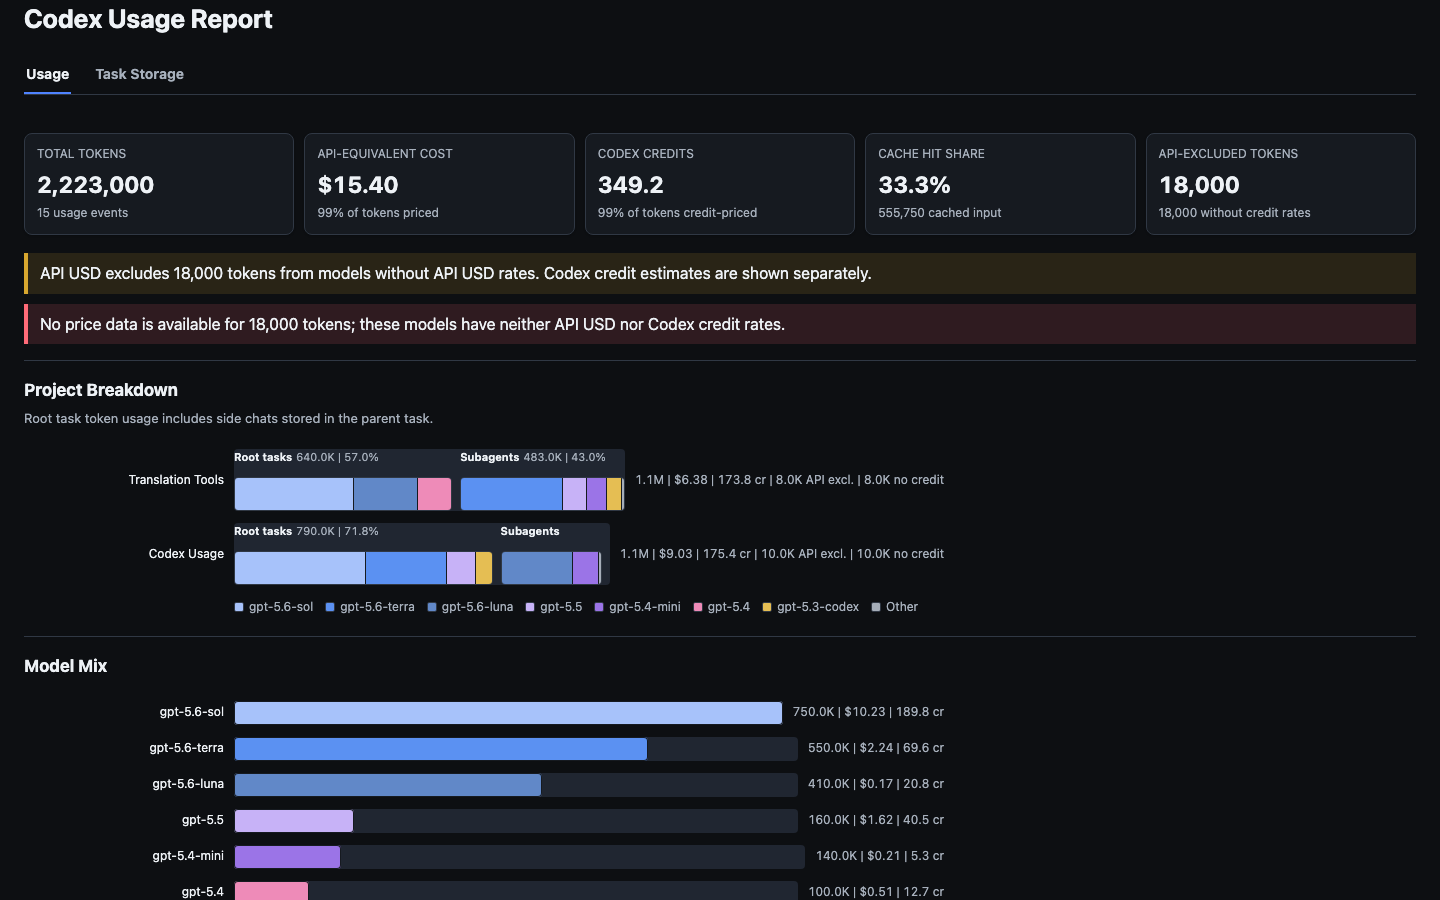
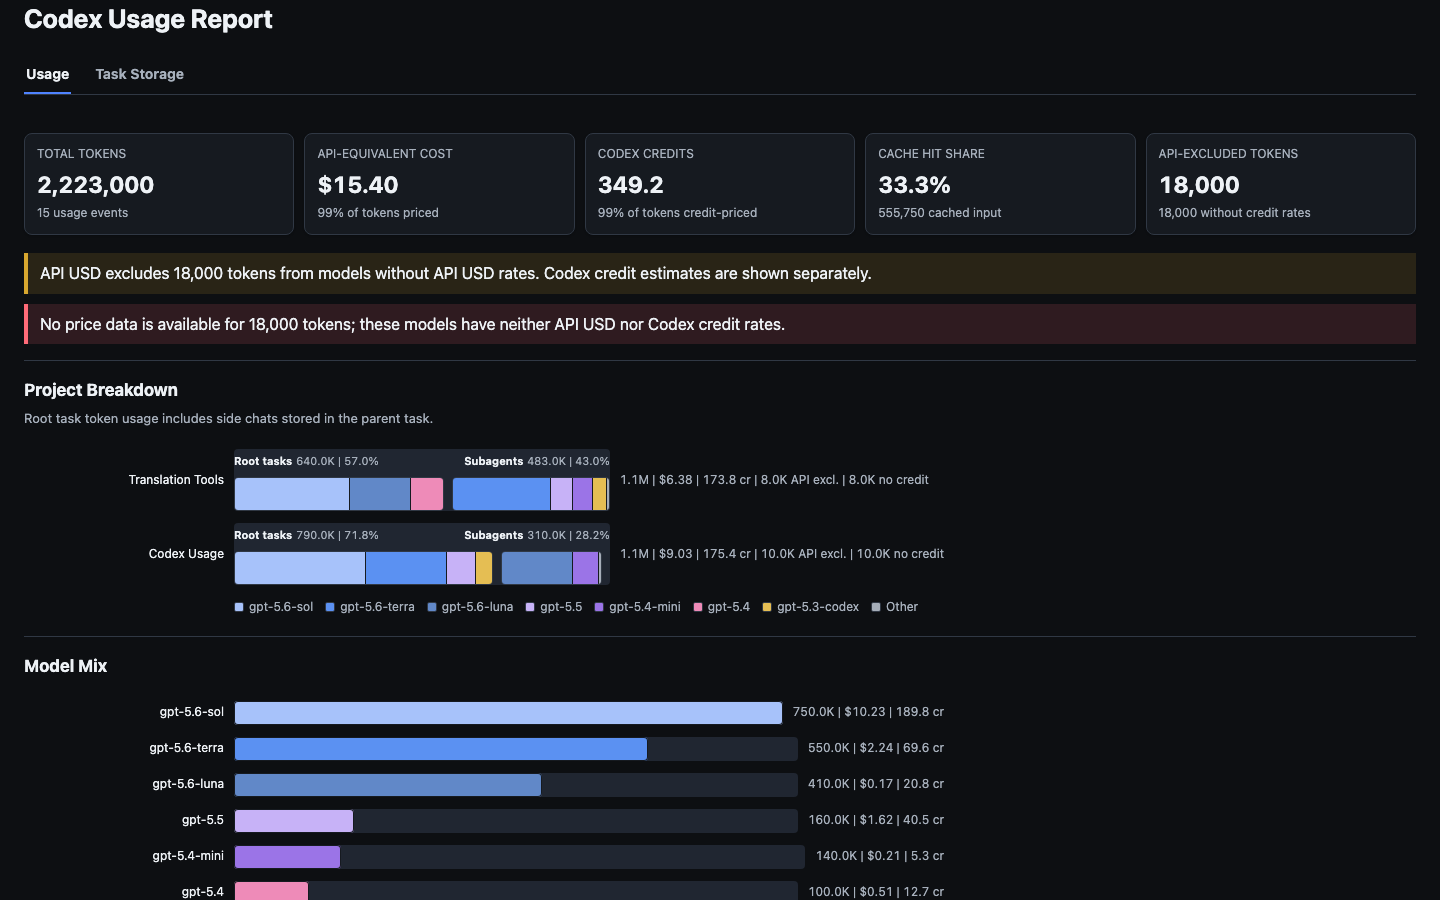
fix: stabilize project breakdown layout

Changed region(s): [[0.2812, 0.4978, 0.6562, 0.6222], [0.1562, 0.4978, 0.25, 0.56], [0.1562, 0.5911, 0.2188, 0.6222]]

diff --git a/extensions/vscode/test/core.test.js b/extensions/vscode/test/core.test.js
@@ -473,7 +473,7 @@ test("native release jobs gate direct Codex registration before VSIX packaging",
 test("package metadata is ready for stable Marketplace publishing", () => {
   assert.equal(packageJson.publisher, "wenjun-mao");
   assert.equal(packageJson.private, undefined);
-  assert.equal(packageJson.version, "1.7.4");
+  assert.equal(packageJson.version, "1.7.5");
   assert.equal(packageJson.preview, undefined);
   assert.equal(packageJson.repository.url, "https://github.com/Wenjun-Mao/codex_usage.git");
   assert.match(packageJson.description, /local/i);

diff --git a/src/codex_usage/report_breakdown_theme.py b/src/codex_usage/report_breakdown_theme.py
@@ -37,12 +37,18 @@ _MODEL_COLOR_CSS = """
 _PROJECT_BREAKDOWN_CSS = """
     .project-breakdown-chart, .model-mix-chart {
       display: grid;
-      gap: 12px;
       min-width: 680px;
       max-width: 920px;
       width: 100%;
     }
-    .project-breakdown-row, .model-mix-row {
+    .project-breakdown-chart {
+      grid-template-columns: minmax(120px, 200px) minmax(220px, 1fr) max-content;
+      gap: 12px 10px;
+      align-items: center;
+    }
+    .project-breakdown-row { display: contents; }
+    .model-mix-chart { gap: 12px; }
+    .model-mix-row {
       display: grid;
       grid-template-columns: minmax(120px, 200px) minmax(220px, 1fr) max-content;
       gap: 10px;
@@ -69,17 +75,21 @@ _PROJECT_BREAKDOWN_CSS = """
       background: var(--surface-soft);
     }
     .project-track { height: 62px; }
-    .project-role-stack { min-width: 0; height: 100%; }
+    .project-role-stack { min-width: 0; height: 34px; }
     .project-role-labels {
-      display: grid;
+      display: flex;
+      align-items: center;
+      justify-content: space-between;
+      gap: 8px;
       min-width: 0;
       height: 24px;
       margin-bottom: 4px;
+      container-name: role-labels;
+      container-type: inline-size;
     }
     .project-role-groups { display: grid; height: 34px; min-width: 0; }
-    .project-role-groups.has-role-gap,
-    .project-role-labels.has-role-gap { gap: 8px; }
-    .project-role-heading { container-type: inline-size; overflow: hidden; min-width: 0; color: var(--muted); font-size: 11px; white-space: nowrap; }
+    .project-role-groups.has-role-gap { gap: 8px; }
+    .project-role-heading { flex: 0 0 auto; min-width: max-content; color: var(--muted); font-size: 11px; white-space: nowrap; }
     .project-role-heading-label { color: var(--text); font-weight: 650; }
     .project-role-heading-detail { margin-left: 4px; font-variant-numeric: tabular-nums; }
     .project-role-group { position: relative; display: flex; overflow: visible; min-width: 0; border: 1px solid var(--border); border-radius: 4px; }
@@ -94,19 +104,25 @@ _PROJECT_BREAKDOWN_CSS = """
       filter: brightness(1.12);
       z-index: 3;
     }
-    .model-legend { display: flex; flex-wrap: wrap; gap: 6px 12px; margin: 2px 0 0 210px; color: var(--muted); font-size: 12px; }
+    .model-legend { display: flex; flex-wrap: wrap; grid-column: 2 / -1; gap: 6px 12px; margin-top: 2px; color: var(--muted); font-size: 12px; }
     .model-legend-item { display: inline-flex; align-items: center; gap: 5px; }
     .model-swatch { display: inline-block; width: 10px; height: 10px; border: 1px solid var(--border); border-radius: 2px; overflow: hidden; }
     .model-swatch > span { display: block; width: 100%; height: 100%; }
     .model-segment .chart-tooltip { left: 50%; }
     .model-segment:hover .chart-tooltip,
     .model-segment:focus-visible .chart-tooltip { opacity: 1; visibility: visible; transform: translate(-50%, 0); transition-delay: 0s; }
-    @container (max-width: 120px) { .project-role-heading-detail { display: none; } }
+    .project-role-group:first-child .model-segment:first-child .chart-tooltip { left: 0; transform: translate(0, 2px); }
+    .project-role-group:last-child .model-segment:last-child .chart-tooltip { right: 0; left: auto; transform: translate(0, 2px); }
+    .project-role-group:first-child .model-segment:first-child:hover .chart-tooltip,
+    .project-role-group:first-child .model-segment:first-child:focus-visible .chart-tooltip,
+    .project-role-group:last-child .model-segment:last-child:hover .chart-tooltip,
+    .project-role-group:last-child .model-segment:last-child:focus-visible .chart-tooltip { transform: translate(0, 0); }
+    @container role-labels (max-width: 360px) { .project-role-heading-detail { display: none; } }
     @media (max-width: 720px) {
       .project-breakdown-chart, .model-mix-chart { min-width: 560px; }
-      .project-breakdown-row, .model-mix-row { grid-template-columns: 96px minmax(220px, 1fr) max-content; gap: 8px; }
+      .project-breakdown-chart { grid-template-columns: 96px minmax(220px, 1fr) max-content; gap: 12px 8px; }
+      .model-mix-row { grid-template-columns: 96px minmax(220px, 1fr) max-content; gap: 8px; }
       .breakdown-bar-label { text-align: left; }
-      .model-legend { margin-left: 104px; }
     }
     body.vscode-high-contrast {
       --model-0: var(--text);

diff --git a/tests/test_project_breakdown_html.py b/tests/test_project_breakdown_html.py
@@ -32,6 +32,7 @@ def test_project_breakdown_renders_nested_roles_models_and_shared_legend(
     ):
         assert f'data-report-section="{section_id}"' in html
     assert 'class="project-role-groups has-role-gap"' in html
+    assert '<div class="project-track"><div class="project-role-labels has-role-gap">' in html
     assert ">Root tasks<" in html
     assert ">Subagents<" in html
     assert 'role="group" aria-label="demo Root tasks' in html
@@ -123,7 +124,7 @@ def test_project_breakdown_empty_state_and_styles_are_self_contained(
     assert "--model-7: #8b949f;" in html
     assert "body.vscode-high-contrast" in html
     assert ".model-segment:focus-visible" in html
-    assert "@container (max-width: 120px)" in html
+    assert "@container role-labels (max-width: 360px)" in html
     assert "<script" not in html
     assert " src=" not in html
     assert 'href="#report-view-usage"' in html
@@ -172,6 +173,8 @@ def test_project_role_fill_boundary_keeps_tooltips_outside_its_clip(tmp_path: Pa
     assert ".model-segment:first-child { border-radius: 3px 0 0 3px; }" in html
     assert ".model-segment:last-child { border-radius: 0 3px 3px 0; }" in html
     assert ".model-segment:only-child { border-radius: 3px; }" in html
+    assert ".project-role-group:first-child .model-segment:first-child .chart-tooltip" in html
+    assert ".project-role-group:last-child .model-segment:last-child .chart-tooltip" in html
 
 
 def test_project_role_stack_reserves_space_for_labels_and_groups(tmp_path: Path) -> None:
@@ -179,6 +182,31 @@ def test_project_role_stack_reserves_space_for_labels_and_groups(tmp_path: Path)
 
     assert ".project-track, .model-mix-track {" in html
     assert "height: 62px;" in html
+    assert ".project-role-stack { min-width: 0; height: 34px; }" in html
+
+
+def test_project_rows_share_track_columns_and_labels_do_not_use_role_widths(
+    tmp_path: Path,
+) -> None:
+    html = _render_report(
+        tmp_path,
+        [
+            _record("root", "gpt-5.6-sol", 9_999),
+            _record("subagent", "gpt-5.6-terra", 1),
+        ],
+    )
+
+    assert ".project-breakdown-row { display: contents; }" in html
+    assert "grid-template-columns: minmax(120px, 200px) minmax(220px, 1fr) max-content;" in html
+    labels_html = html.split('<div class="project-role-labels has-role-gap">', 1)[1].split(
+        "</div>", 1
+    )[0]
+    assert "grid-template-columns" not in labels_html
+    assert ">Root tasks<" in labels_html
+    assert ">Subagents<" in labels_html
+    assert "overflow: hidden" not in html.split(".project-role-heading {", 1)[1].split(
+        "}", 1
+    )[0]
 
 
 def test_model_details_keeps_all_exact_models_beyond_two_hundred_rows(

diff --git a/src/codex_usage/marketplace_screenshot_validation.py b/src/codex_usage/marketplace_screenshot_validation.py
@@ -12,6 +12,7 @@ def _validate_browser_layout(page: Page, viewport_width: int, view: str) -> None
         _validate_storage_tooltips(page, viewport_width)
     else:
         _validate_focused_tooltips(page, viewport_width)
+        _validate_project_track_geometry(page)
         _validate_role_group_geometry(page)
     _validate_scroll_containers(page, view)
 
@@ -152,6 +153,33 @@ def _validate_role_group_geometry(page: Page) -> None:
             or group_y + group_height > stack_y + stack_height
         ):
             raise RuntimeError("project role group escapes its project role stack")
+
+
+def _validate_project_track_geometry(page: Page) -> None:
+    tracks = page.locator(".project-track")
+    track_widths = [
+        _box_values(box)[2]
+        for index in range(tracks.count())
+        if (box := tracks.nth(index).bounding_box()) is not None
+    ]
+    if not track_widths:
+        raise RuntimeError("expected project tracks")
+    if max(track_widths) - min(track_widths) > 0.5:
+        raise RuntimeError("project tracks do not share one chart width")
+
+    clipped_labels = page.locator(".project-role-heading-label").evaluate_all(
+        """
+        labels => labels.filter(label => {
+          const rect = label.getBoundingClientRect();
+          const range = document.createRange();
+          range.selectNodeContents(label);
+          const textRect = range.getBoundingClientRect();
+          return textRect.left < rect.left - 0.5 || textRect.right > rect.right + 0.5;
+        }).map(label => label.textContent)
+        """
+    )
+    if clipped_labels:
+        raise RuntimeError(f"project role labels are clipped: {clipped_labels}")
 
 
 def _validate_scroll_containers(page: Page, view: str) -> None:

diff --git a/tests/test_marketplace_screenshot.py b/tests/test_marketplace_screenshot.py
@@ -7,6 +7,7 @@ from pathlib import Path
 from codex_usage.marketplace_screenshot_validation import (
     _box_values,
     _clear_tooltip_interaction,
+    _validate_project_track_geometry,
     _tooltip_visibility_error,
     _visible_scroll_metrics,
 )
@@ -109,6 +110,40 @@ def test_browser_geometry_uses_playwright_box_mappings() -> None:
         30,
         40,
     )
+
+
+def test_project_track_geometry_rejects_mismatched_track_widths() -> None:
+    class FakeLocator:
+        def __init__(self, boxes: list[dict[str, float]]) -> None:
+            self.boxes = boxes
+
+        def count(self) -> int:
+            return len(self.boxes)
+
+        def nth(self, index: int):
+            box = self.boxes[index]
+            return type("BoxLocator", (), {"bounding_box": lambda self: box})()
+
+        def evaluate_all(self, _script: str) -> list[str]:
+            return []
+
+    class FakePage:
+        def locator(self, selector: str):
+            if selector == ".project-track":
+                return FakeLocator(
+                    [
+                        {"x": 10, "y": 20, "width": 300, "height": 62},
+                        {"x": 10, "y": 94, "width": 298, "height": 62},
+                    ]
+                )
+            return FakeLocator([])
+
+    try:
+        _validate_project_track_geometry(FakePage())  # type: ignore[arg-type]
+    except RuntimeError as error:
+        assert "share one chart width" in str(error)
+    else:
+        raise AssertionError("mismatched project tracks should fail validation")
 
 
 def test_visible_scroll_metrics_ignore_hidden_sections() -> None:

diff --git a/tests/test_github_actions_workflow.py b/tests/test_github_actions_workflow.py
@@ -193,13 +193,13 @@ def test_release_metadata_is_stable_1_7_4():
     codex_usage_lock = next(
         package for package in uv_lock["package"] if package["name"] == "codex-usage"
     )
-    assert pyproject["project"]["version"] == "1.7.4"
-    assert __version__ == "1.7.4"
-    assert codex_usage_lock["version"] == "1.7.4"
-    assert extension_package["version"] == "1.7.4"
+    assert pyproject["project"]["version"] == "1.7.5"
+    assert __version__ == "1.7.5"
+    assert codex_usage_lock["version"] == "1.7.5"
+    assert extension_package["version"] == "1.7.5"
     assert "preview" not in extension_package
-    assert extension_lock["version"] == "1.7.4"
-    assert extension_lock["packages"][""]["version"] == "1.7.4"
+    assert extension_lock["version"] == "1.7.5"
+    assert extension_lock["packages"][""]["version"] == "1.7.5"
 
 
 @pytest.mark.parametrize(

diff --git a/src/codex_usage/charts.py b/src/codex_usage/charts.py
@@ -117,9 +117,8 @@ def render_project_breakdown_chart(
             '<div class="project-breakdown-row">'
             f'<span class="breakdown-bar-label">{_esc(point.label)}</span>'
             '<div class="project-track">'
+            f'<div class="project-role-labels{role_gap_class}">{role_headings}</div>'
             f'<div class="project-role-stack" style="width:{outer_width:.4f}%">'
-            f'<div class="project-role-labels{role_gap_class}" '
-            f'style="grid-template-columns:{role_columns}">{role_headings}</div>'
             f'<div class="project-role-groups{role_gap_class}" '
             f'style="grid-template-columns:{role_columns}">{role_groups}</div>'
             "</div></div>"

diff --git a/tests/test_release_history.py b/tests/test_release_history.py
@@ -10,6 +10,7 @@ CHANGELOGS = (ROOT / "CHANGELOG.md", ROOT / "extensions/vscode/CHANGELOG.md")
 SUPPORT_DOCS = (ROOT / "SUPPORT.md", ROOT / "extensions/vscode/SUPPORT.md")
 
 ROOT_RELEASE_DATES = {
+    "1.7.5": "2026-08-12",
     "1.7.4": "2026-08-12",
     "1.7.3": "2026-08-09",
     "1.7.2": "2026-08-09",
@@ -65,6 +66,7 @@ ROOT_RELEASE_DATES = {
     "0.1.0": "2026-05-19",
 }
 EXTENSION_RELEASE_VERSIONS = (
+    "1.7.5",
     "1.7.4",
     "1.7.3",
     "1.7.2",

diff --git a/src/codex_usage/__init__.py b/src/codex_usage/__init__.py
@@ -1,3 +1,3 @@
 """Codex session usage analyzer."""
 
-__version__ = "1.7.4"
+__version__ = "1.7.5"

diff --git a/CHANGELOG.md b/CHANGELOG.md
@@ -2,6 +2,12 @@
 
 ## Unreleased
 
+## 1.7.5 - 2026-08-12 - Project Breakdown Layout
+
+- Made every Project Breakdown row share one chart grid so gray tracks keep identical lengths regardless of value-label width.
+- Moved Root tasks and Subagents headings onto the full shared track while keeping only the colored role bars proportional, preventing labels from being clipped for small projects or role shares.
+- Anchored edge-segment tooltips inside the chart and added browser geometry checks for equal tracks and complete role labels.
+
 ## 1.7.4 - 2026-08-12 - Subagent Replay Accounting
 
 - Stopped counting inherited parent-history replay as fresh usage in newer structured subagent fork files, removing duplicated totals and the resulting oversized `unknown` model bucket.

diff --git a/extensions/vscode/CHANGELOG.md b/extensions/vscode/CHANGELOG.md
@@ -2,6 +2,12 @@
 
 ## Unreleased
 
+## 1.7.5 - 2026-08-12 - Project Breakdown Layout
+
+- Kept every Project Breakdown background track the same length across projects.
+- Prevented Root tasks and Subagents headings from being cut off when a project or role has a small token share.
+- Kept model tooltips inside the visible chart at both role boundaries.
+
 ## 1.7.4 - 2026-08-12 - Subagent Replay Accounting
 
 - Corrected Usage reports that counted inherited parent-history replay inside newer structured subagent forks, which inflated totals and appeared under `unknown`.
